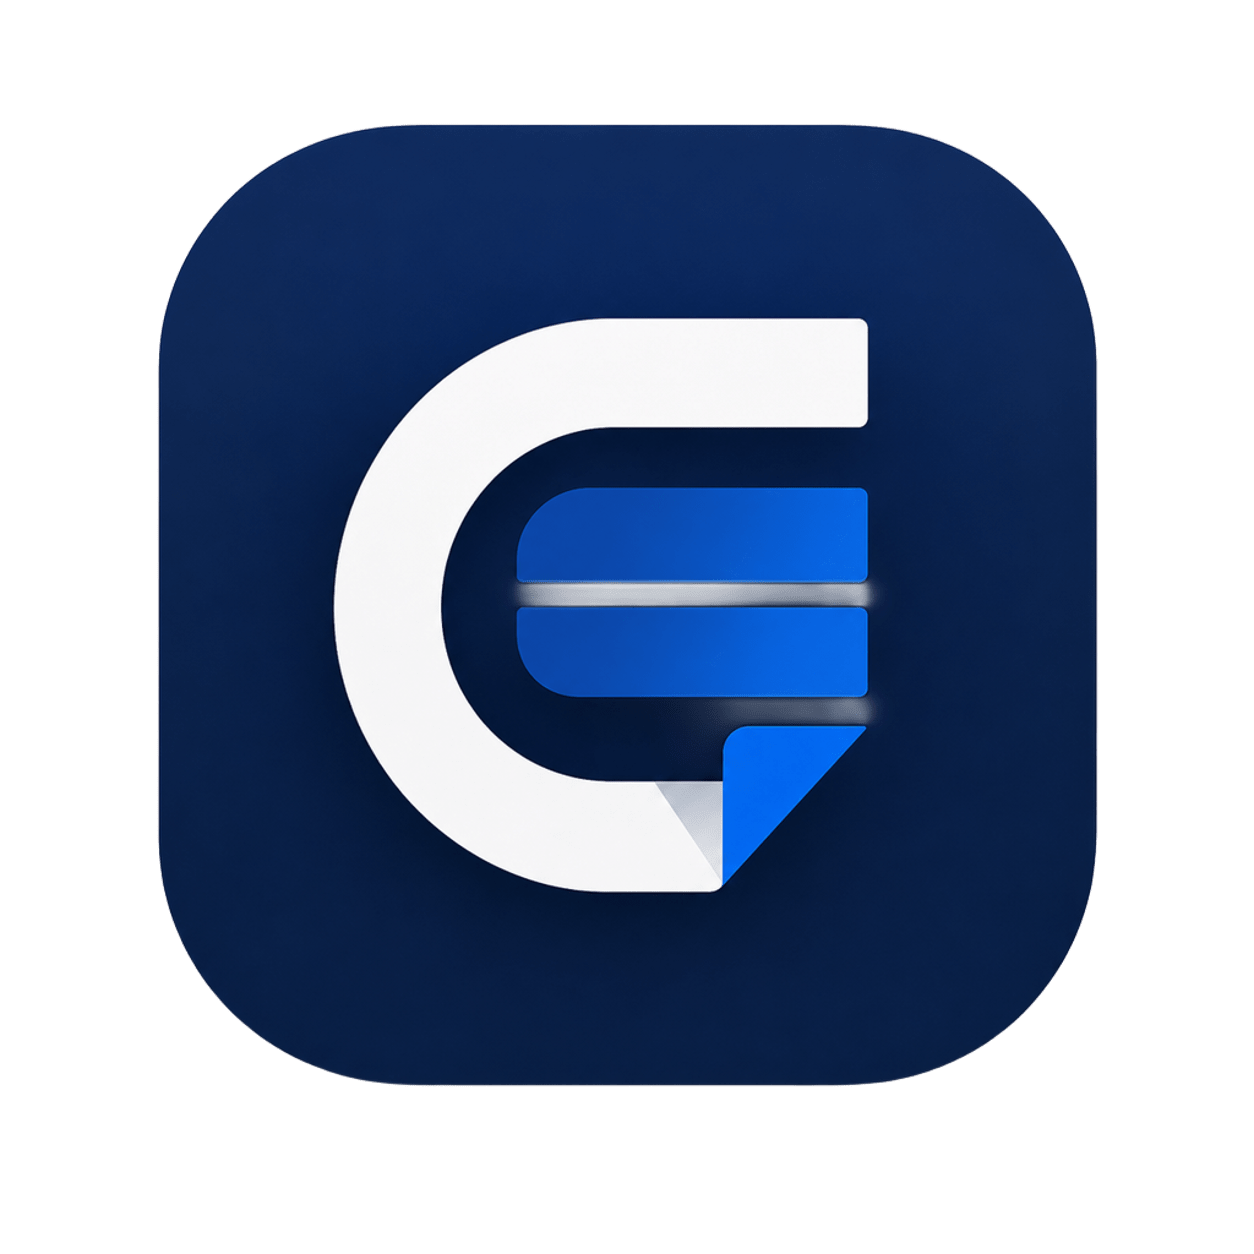
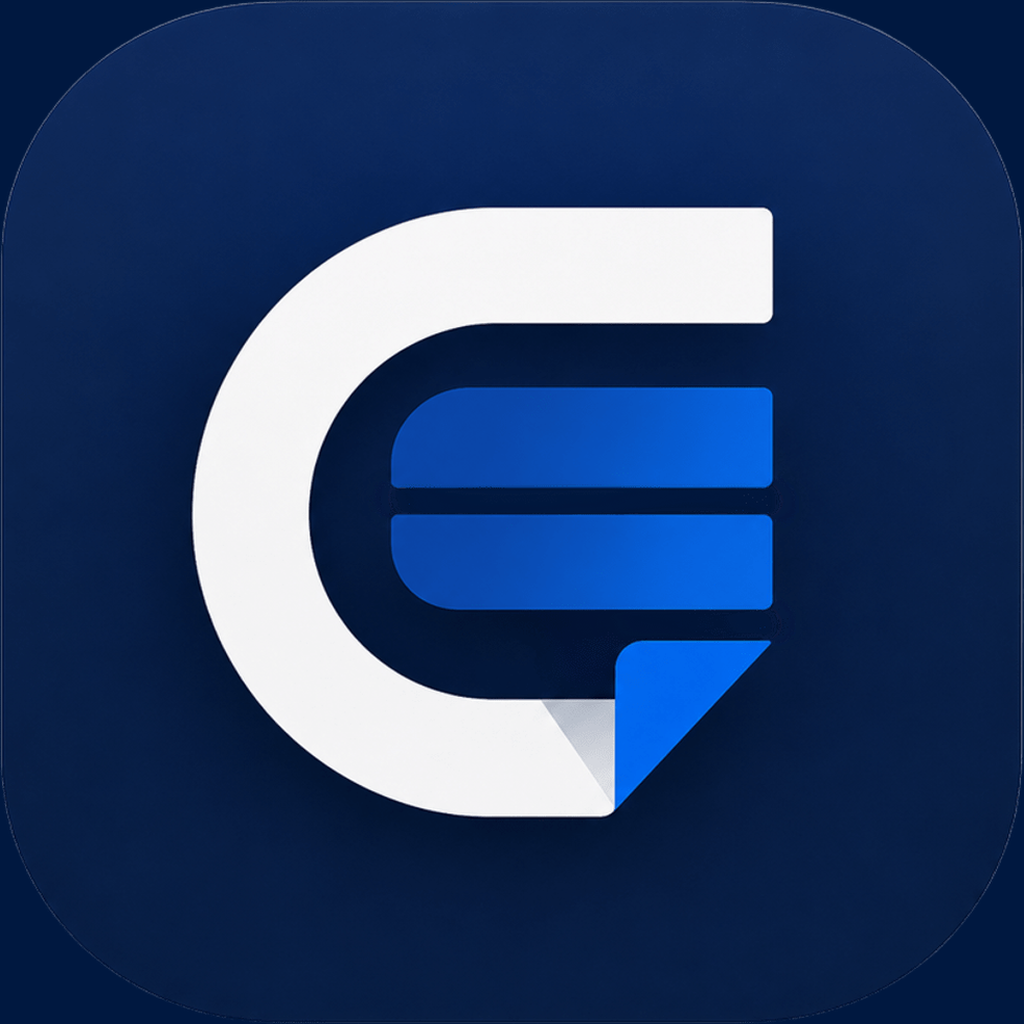
fix(pwa): splash arka planını ikon rengiyle (#001840) hizala
Şeffaf/beyaz kenarlar kaldırıldı, ikon tam dolgu yapıldı ve manifest splash rengi crewledger köşe tonuyla eşleştirildi (v6).

diff --git a/src/lib/serve-app-icon.ts b/src/lib/serve-app-icon.ts
@@ -1,13 +1,54 @@
 import { readFile } from 'node:fs/promises';
 import path from 'node:path';
-import { CREWLEDGER_APP_ICON } from '@/lib/brand';
+import sharp from 'sharp';
+import { CREWLEDGER_ICON_BG } from '@/lib/brand';
 
-const ICON_FILE = path.join(process.cwd(), 'public', CREWLEDGER_APP_ICON.replace(/^\//, ''));
+const ICON_FILE = path.join(process.cwd(), 'public', 'crewledger.png');
+
+function parseHex(hex: string) {
+  const h = hex.replace('#', '');
+  return {
+    r: parseInt(h.slice(0, 2), 16),
+    g: parseInt(h.slice(2, 4), 16),
+    b: parseInt(h.slice(4, 6), 16),
+    alpha: 1,
+  };
+}
+
+export type AppIconVariant = 'any' | 'maskable';
+
+async function buildIconBuffer(size: number, variant: AppIconVariant) {
+  const source = await readFile(ICON_FILE);
+  const trimmed = await sharp(source).trim().toBuffer();
+  const { width: tw = size, height: th = size } = await sharp(trimmed).metadata();
+
+  const fillRatio = variant === 'maskable' ? 0.72 : 1;
+  const target = Math.round(size * fillRatio);
+  const scale = Math.min(target / tw, target / th);
+  const resizedW = Math.max(1, Math.round(tw * scale));
+  const resizedH = Math.max(1, Math.round(th * scale));
+
+  const logo = await sharp(trimmed)
+    .resize(resizedW, resizedH, { fit: 'fill' })
+    .toBuffer();
+
+  return sharp({
+    create: {
+      width: size,
+      height: size,
+      channels: 4,
+      background: parseHex(CREWLEDGER_ICON_BG),
+    },
+  })
+    .composite([{ input: logo, gravity: 'centre' }])
+    .png()
+    .toBuffer();
+}
 
 /** crewledger.png — PWA / manifest ikon endpoint'leri */
-export async function serveCrewledgerAppIcon() {
-  const buffer = await readFile(ICON_FILE);
-  return new Response(buffer, {
+export async function serveCrewledgerAppIcon(size = 512, variant: AppIconVariant = 'any') {
+  const buffer = await buildIconBuffer(size, variant);
+  return new Response(new Uint8Array(buffer), {
     headers: {
       'Content-Type': 'image/png',
       'Cache-Control': 'public, max-age=86400, immutable',

diff --git a/src/lib/pwa-manifest.ts b/src/lib/pwa-manifest.ts
@@ -1,5 +1,4 @@
 import type { MetadataRoute } from 'next';
-import { CREWLEDGER_APP_ICON } from '@/lib/brand';
 import {
   PERSONNEL_PWA_SPLASH_BG,
   PERSONNEL_PWA_THEME,
@@ -10,25 +9,28 @@ export type PwaAppVariant = 'personnel' | 'admin';
 
 const ORIGIN = getTwaOrigin();
 /** PWA ikon/manifest önbelleğini kırmak için — değişince artır */
-const PWA_ASSET_VERSION = '5';
+const PWA_ASSET_VERSION = '6';
 
-function appIconUrl() {
-  return `${ORIGIN}${CREWLEDGER_APP_ICON}?v=${PWA_ASSET_VERSION}`;
+function appIconUrl(size: 192 | 512) {
+  return `${ORIGIN}/api/pwa-icon/${size}?v=${PWA_ASSET_VERSION}`;
+}
+
+function maskableIconUrl(size: 192 | 512 = 512) {
+  return `${ORIGIN}/icons/personnel/maskable/${size}?v=${PWA_ASSET_VERSION}`;
 }
 
 function baseIcons(): MetadataRoute.Manifest['icons'] {
-  const src = appIconUrl();
   return [
-    { src, sizes: '192x192', type: 'image/png', purpose: 'any' },
-    { src, sizes: '512x512', type: 'image/png', purpose: 'any' },
-    { src, sizes: '512x512', type: 'image/png', purpose: 'maskable' },
+    { src: appIconUrl(192), sizes: '192x192', type: 'image/png', purpose: 'any' },
+    { src: appIconUrl(512), sizes: '512x512', type: 'image/png', purpose: 'any' },
+    { src: maskableIconUrl(512), sizes: '512x512', type: 'image/png', purpose: 'maskable' },
   ];
 }
 
 export function buildPersonnelManifest(): MetadataRoute.Manifest {
-  const icon = appIconUrl();
+  const icon = appIconUrl(192);
   return {
-    id: '/personnel-panel?v=5',
+    id: '/personnel-panel?v=6',
     name: 'CrewLedger Personel',
     short_name: 'CrewLedger',
     description:
@@ -63,9 +65,9 @@ export function buildPersonnelManifest(): MetadataRoute.Manifest {
 }
 
 export function buildAdminManifest(): MetadataRoute.Manifest {
-  const icon = appIconUrl();
+  const icon = appIconUrl(192);
   return {
-    id: '/admin-panel?v=5',
+    id: '/admin-panel?v=6',
     name: 'CrewLedger Yönetici',
     short_name: 'CL Yönetici',
     description:

diff --git a/src/lib/personnel-pwa-brand.ts b/src/lib/personnel-pwa-brand.ts
@@ -1,15 +1,17 @@
+import { CREWLEDGER_ICON_BG } from '@/lib/brand';
+
 /** Personel intro / PWA splash görseli ve renkleri */
 export const PERSONNEL_INTRO_IMAGE = '/crewledger-intro.png';
 
 /** Giriş, şifremi unuttum ve başvuru ekranları arka planı */
 export const PERSONNEL_AUTH_BG_IMAGE = '/crewledger-temp.png';
 
-/** PNG kenar tonu — PWA splash ve intro köprüsü */
-export const PERSONNEL_PWA_SPLASH_BG = '#0b1624';
+/** PNG kenar tonu — PWA splash ve intro köprüsü (ikon ile aynı) */
+export const PERSONNEL_PWA_SPLASH_BG = CREWLEDGER_ICON_BG;
 export const PERSONNEL_PWA_THEME = '#163a5c';
 
 export const PERSONNEL_PWA_GRADIENT =
-  'linear-gradient(180deg, #1a3a52 0%, #0b1624 55%, #060d14 100%)';
+  'linear-gradient(180deg, #1a3a52 0%, #001840 55%, #000f28 100%)';
 
 /** iOS apple-touch-startup-image */
 export const PERSONNEL_PWA_STARTUP_IMAGES = [

diff --git a/src/app/admin-panel/layout.tsx b/src/app/admin-panel/layout.tsx
@@ -16,8 +16,8 @@ export const metadata: Metadata = {
     title: 'CL Yönetici',
   },
   icons: {
-    icon: [{ url: `${ORIGIN}${CREWLEDGER_APP_ICON}?v=5`, sizes: '512x512', type: 'image/png' }],
-    apple: [{ url: `${ORIGIN}${CREWLEDGER_APP_ICON}?v=5`, sizes: '512x512', type: 'image/png' }],
+    icon: [{ url: `${ORIGIN}${CREWLEDGER_APP_ICON}?v=6`, sizes: '512x512', type: 'image/png' }],
+    apple: [{ url: `${ORIGIN}${CREWLEDGER_APP_ICON}?v=6`, sizes: '512x512', type: 'image/png' }],
   },
   other: {
     'mobile-web-app-capable': 'yes',

diff --git a/src/app/personnel-panel/layout.tsx b/src/app/personnel-panel/layout.tsx
@@ -25,8 +25,8 @@ export const metadata: Metadata = {
     title: 'CrewLedger',
   },
   icons: {
-    icon: [{ url: `${ORIGIN}${CREWLEDGER_APP_ICON}?v=5`, sizes: '512x512', type: 'image/png' }],
-    apple: [{ url: `${ORIGIN}${CREWLEDGER_APP_ICON}?v=5`, sizes: '512x512', type: 'image/png' }],
+    icon: [{ url: `${ORIGIN}${CREWLEDGER_APP_ICON}?v=6`, sizes: '512x512', type: 'image/png' }],
+    apple: [{ url: `${ORIGIN}${CREWLEDGER_APP_ICON}?v=6`, sizes: '512x512', type: 'image/png' }],
   },
   other: {
     'mobile-web-app-capable': 'yes',

diff --git a/src/app/layout.tsx b/src/app/layout.tsx
@@ -29,8 +29,8 @@ export const metadata: Metadata = {
     telephone: false,
   },
   icons: {
-    icon: [{ url: `${CREWLEDGER_APP_ICON}?v=5`, sizes: '512x512', type: 'image/png' }],
-    apple: [{ url: `${CREWLEDGER_APP_ICON}?v=5`, sizes: '512x512', type: 'image/png' }],
+    icon: [{ url: `${CREWLEDGER_APP_ICON}?v=6`, sizes: '512x512', type: 'image/png' }],
+    apple: [{ url: `${CREWLEDGER_APP_ICON}?v=6`, sizes: '512x512', type: 'image/png' }],
   },
 };
 

diff --git a/src/lib/brand.ts b/src/lib/brand.ts
@@ -7,3 +7,6 @@ export const DEFAULT_SUPPORT_EMAIL = 'hello@crewledger.app';
 
 /** Uygulama + marka ikonu (PWA, TWA, BrandMark, favicon) */
 export const CREWLEDGER_APP_ICON = '/crewledger.png';
+
+/** İkon köşe / PWA splash arka plan rengi — crewledger.png ile birebir */
+export const CREWLEDGER_ICON_BG = '#001840';

diff --git a/src/components/personnel/PersonnelLoginLayout.tsx b/src/components/personnel/PersonnelLoginLayout.tsx
@@ -42,7 +42,7 @@ export function PersonnelLoginLayout({
           className="object-cover object-center"
           sizes="100vw"
         />
-        <div className="absolute inset-0 bg-[#0b1624]/25" />
+        <div className="absolute inset-0 bg-[#001840]/20" />
       </div>
 
       <div

diff --git a/public/sw.js b/public/sw.js
@@ -1,4 +1,4 @@
-const CACHE_NAME = 'crewledger-v5';
+const CACHE_NAME = 'crewledger-v6';
 
 /** Oturum / panel sayfaları asla önbellekten sunulmaz — her açılışta sunucu cookie kontrol eder */
 const NETWORK_ONLY_PREFIXES = [

diff --git a/src/app/icons/personnel/maskable/[size]/route.ts b/src/app/icons/personnel/maskable/[size]/route.ts
@@ -13,5 +13,5 @@ export async function GET(
     return new Response('Invalid size', { status: 400 });
   }
 
-  return serveCrewledgerAppIcon();
+  return serveCrewledgerAppIcon(size, 'maskable');
 }

diff --git a/src/app/api/pwa-icon/[size]/route.ts b/src/app/api/pwa-icon/[size]/route.ts
@@ -13,5 +13,5 @@ export async function GET(
     return new Response('Invalid size', { status: 400 });
   }
 
-  return serveCrewledgerAppIcon();
+  return serveCrewledgerAppIcon(size, 'any');
 }

diff --git a/src/app/icons/[variant]/[size]/route.ts b/src/app/icons/[variant]/[size]/route.ts
@@ -16,5 +16,5 @@ export async function GET(
     return new Response('Invalid size', { status: 400 });
   }
 
-  return serveCrewledgerAppIcon();
+  return serveCrewledgerAppIcon(size, 'any');
 }
